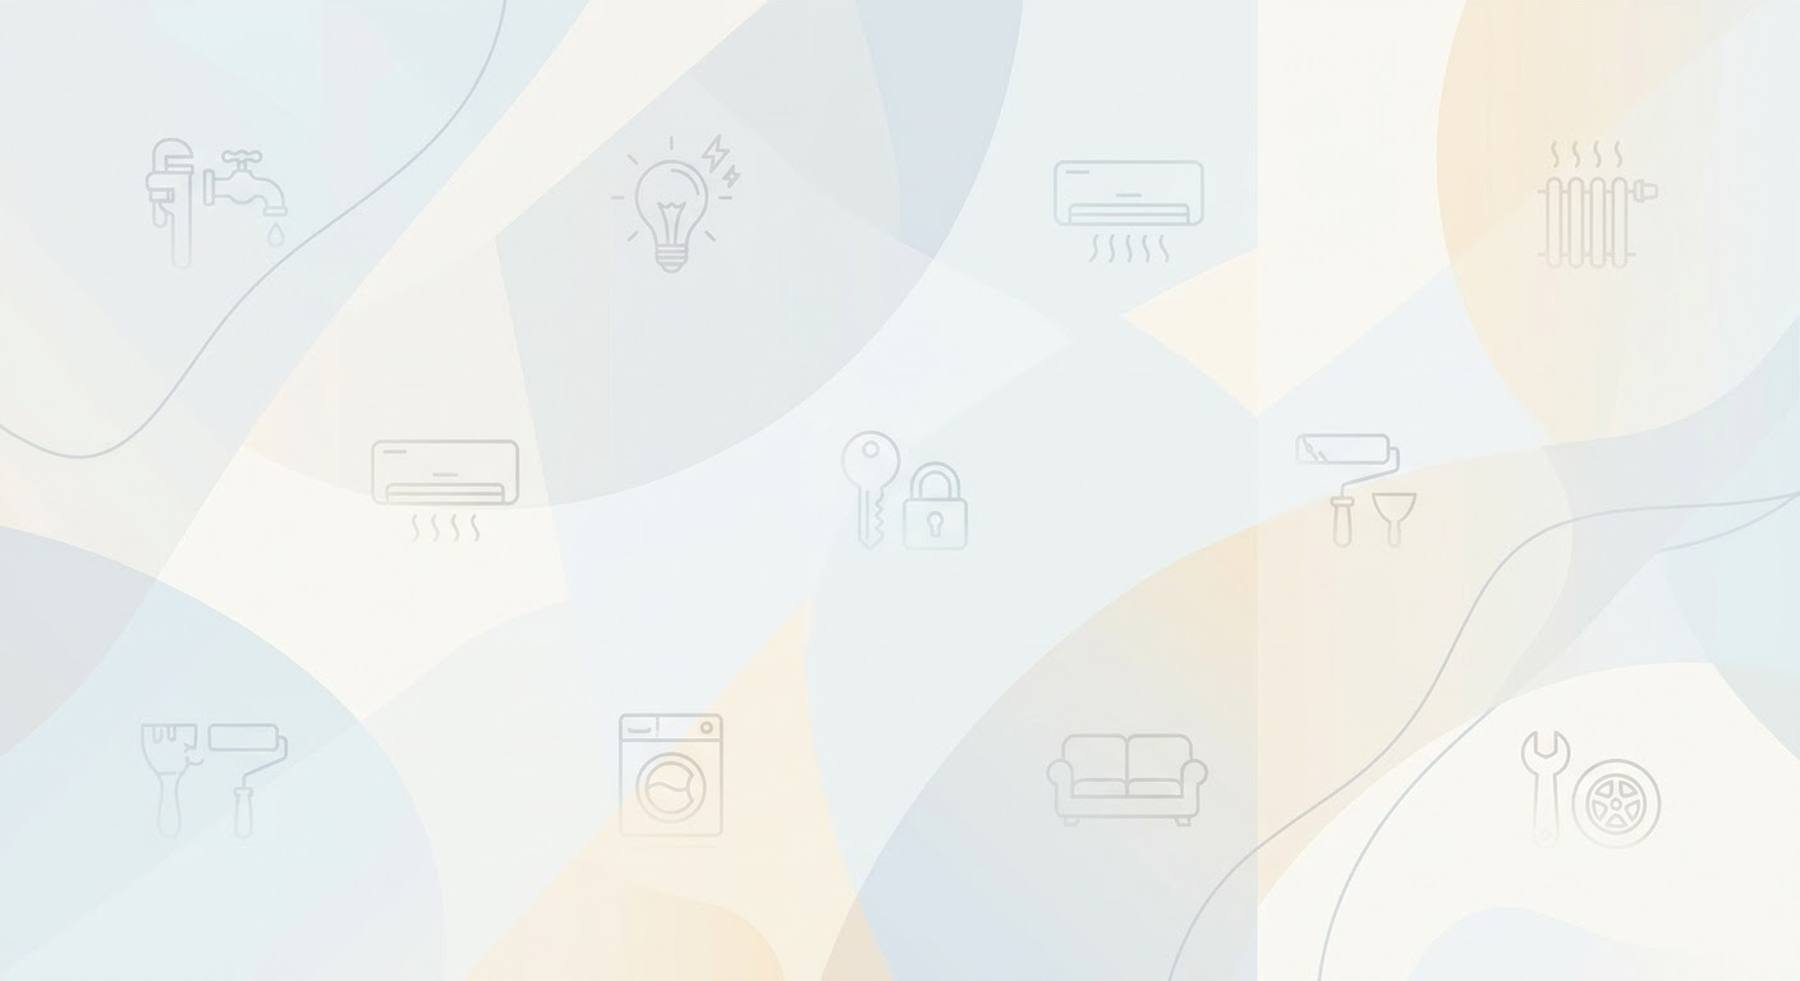
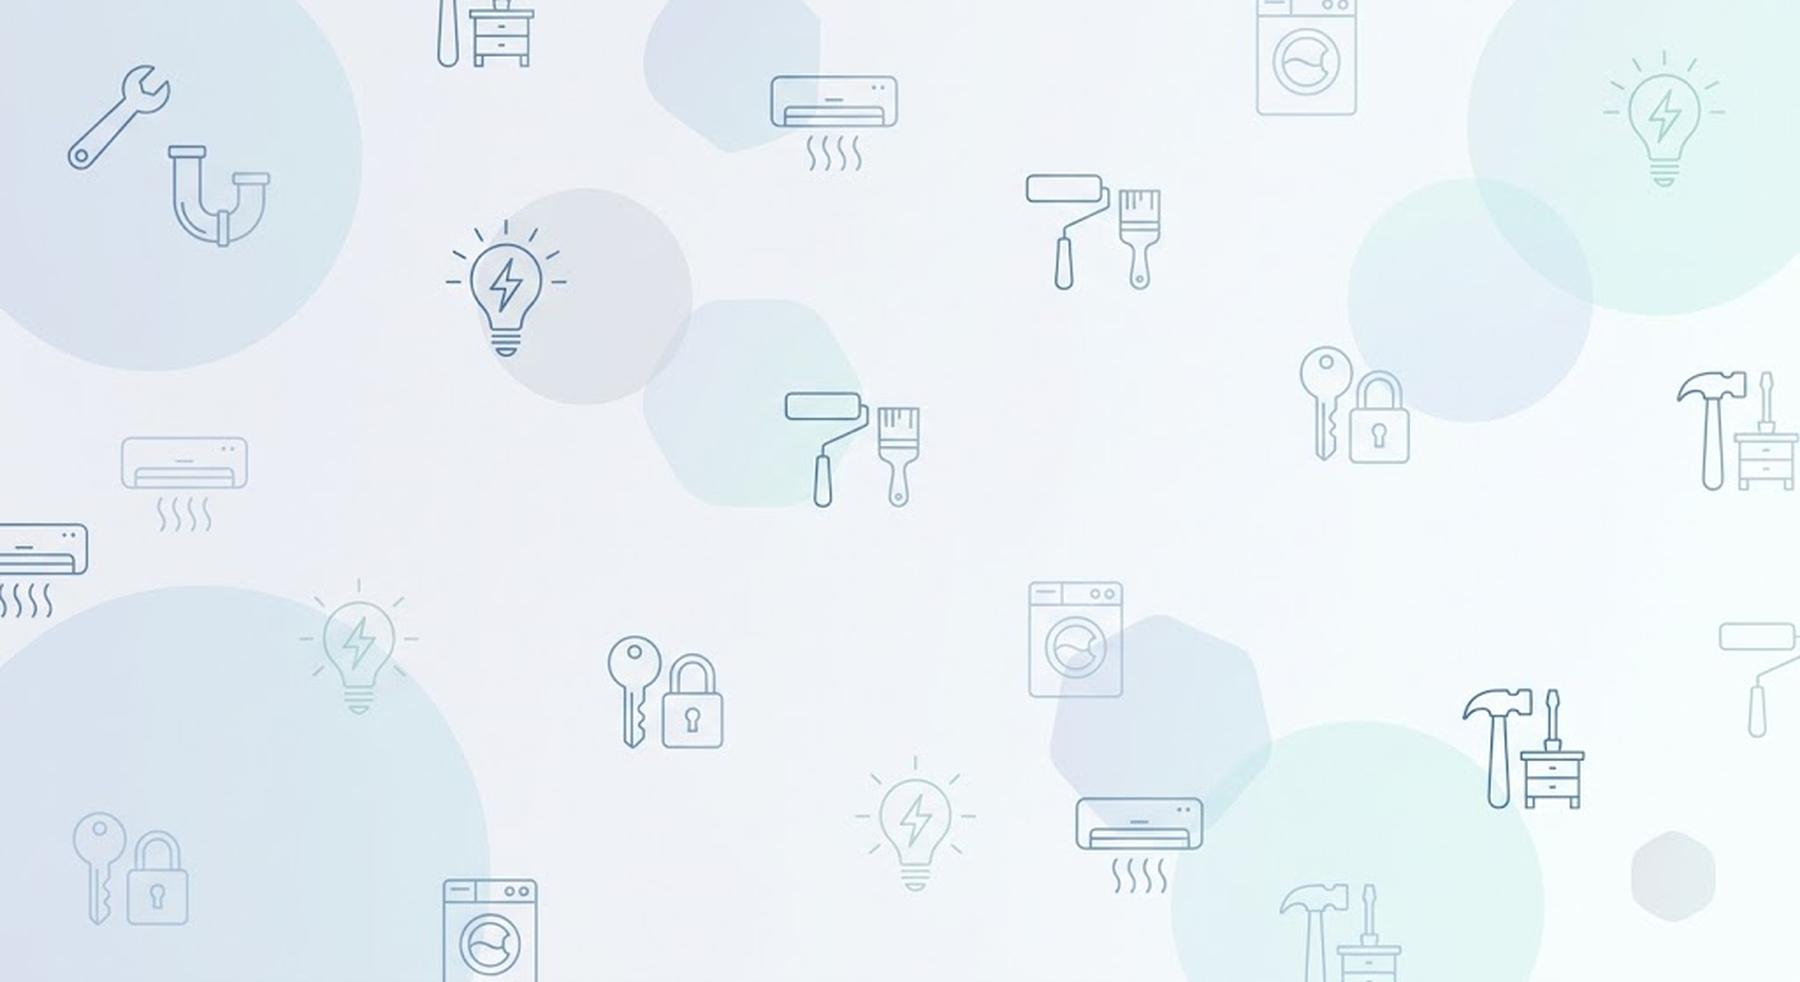
Centreaza vertical coloanele din pagina de inregistrare; schimba fundalul site-wide cu noua imagine si aplica blur 8px izolat (nu afecteaza textul de deasupra)

diff --git a/app/globals.css b/app/globals.css
@@ -21,7 +21,14 @@
 html{-webkit-text-size-adjust:100%; scroll-behavior:smooth;}
 body{
   font-family:var(--font); color:var(--graphite); line-height:1.55; -webkit-font-smoothing:antialiased;
-  background:var(--paper) url('/site-bg-pattern.jpg') fixed center top / cover no-repeat;
+  background:var(--paper);
+  position:relative;
+}
+body::before{
+  content:'';
+  position:fixed; inset:-20px; z-index:-1;
+  background:url('/site-bg-pattern.jpg') center top / cover no-repeat;
+  filter:blur(8px);
 }
 h1,h2,h3{font-family:var(--font); font-weight:800; letter-spacing:-0.02em;}
 .mono{font-family:var(--font); font-variant-numeric:tabular-nums;}
@@ -273,7 +280,7 @@ footer b{color:var(--paper);}
 }
 
 /* ---------- REGISTER PAGE LAYOUT ---------- */
-.register-layout{display:grid; grid-template-columns:1fr 1fr; gap:40px; max-width:920px; margin:60px auto; padding:0 24px; align-items:start;}
+.register-layout{display:grid; grid-template-columns:1fr 1fr; gap:40px; max-width:920px; margin:60px auto; padding:0 24px; align-items:center;}
 @media(max-width:800px){
   .register-layout{grid-template-columns:1fr; max-width:480px; margin:40px auto;}
 }
@@ -292,7 +299,6 @@ footer b{color:var(--paper);}
 }
 
 @media(max-width:640px){
-  body{background-attachment:scroll;}
   .hero{padding:52px 16px 48px;}
   .hero h1{font-size:28px;}
   .hero p{font-size:14.5px;}

diff --git a/public/sw.js b/public/sw.js
@@ -1,4 +1,4 @@
-const CACHE_NAME = "fixeasy-v22";
+const CACHE_NAME = "fixeasy-v23";
 const APP_SHELL = ["/", "/manifest.webmanifest", "/logo.png", "/hero-professionals.jpg", "/site-bg-pattern.jpg", "/icons/icon-192.png", "/icons/icon-512.png", "/icons/mark.png"];
 
 self.addEventListener("install", (event) => {
